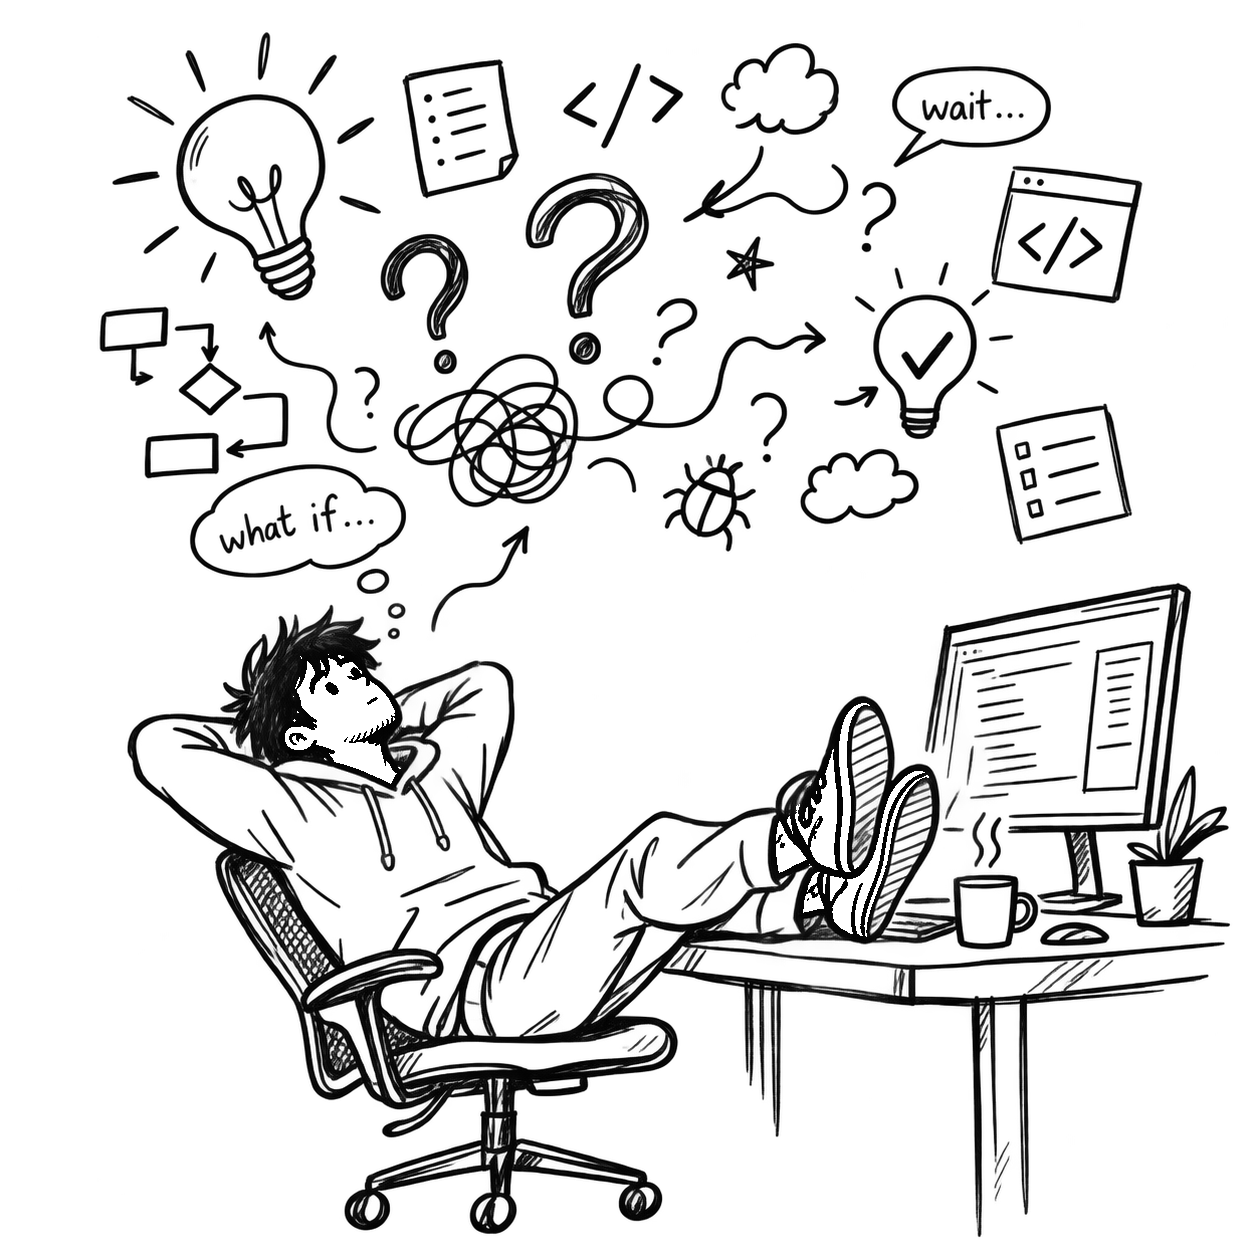
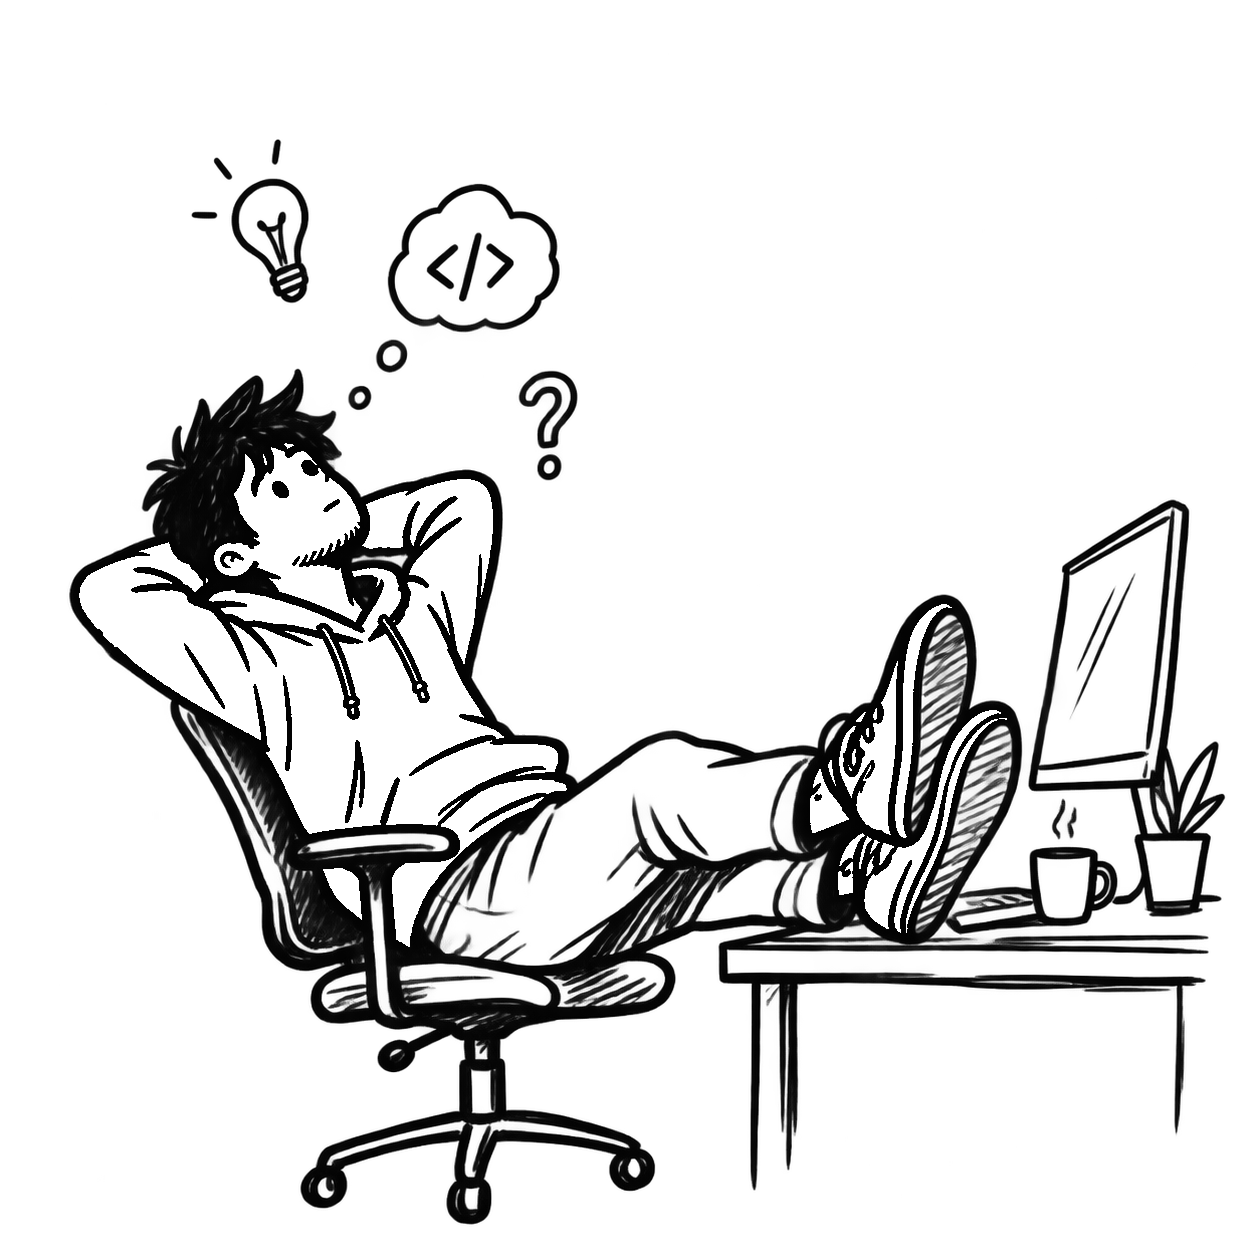
Swap in the new about illustration
Recolored the same way as before: threshold-based fix that pushes the
buggy near-black stroke pixels to pure black while leaving genuine
white fills (face, shoes) untouched.

diff --git a/src/components/sections/AboutSection.tsx b/src/components/sections/AboutSection.tsx
@@ -18,7 +18,7 @@ export function AboutSection({ about }: { about: typeof AboutType }) {
         >
           <Image
             src="/about-image.png"
-            alt="Doodle illustration of the developer leaning back in his chair, feet up, staring at a ceiling full of thought bubbles — lightbulbs, question marks, code brackets, a bug, and a tangled scribble"
+            alt="Doodle illustration of the developer leaning back in his chair, feet up on the desk, hands behind his head, thinking — a lightbulb, a code bracket, and a question mark float above him"
             width={780}
             height={780}
             className="w-full max-w-[700px]"
